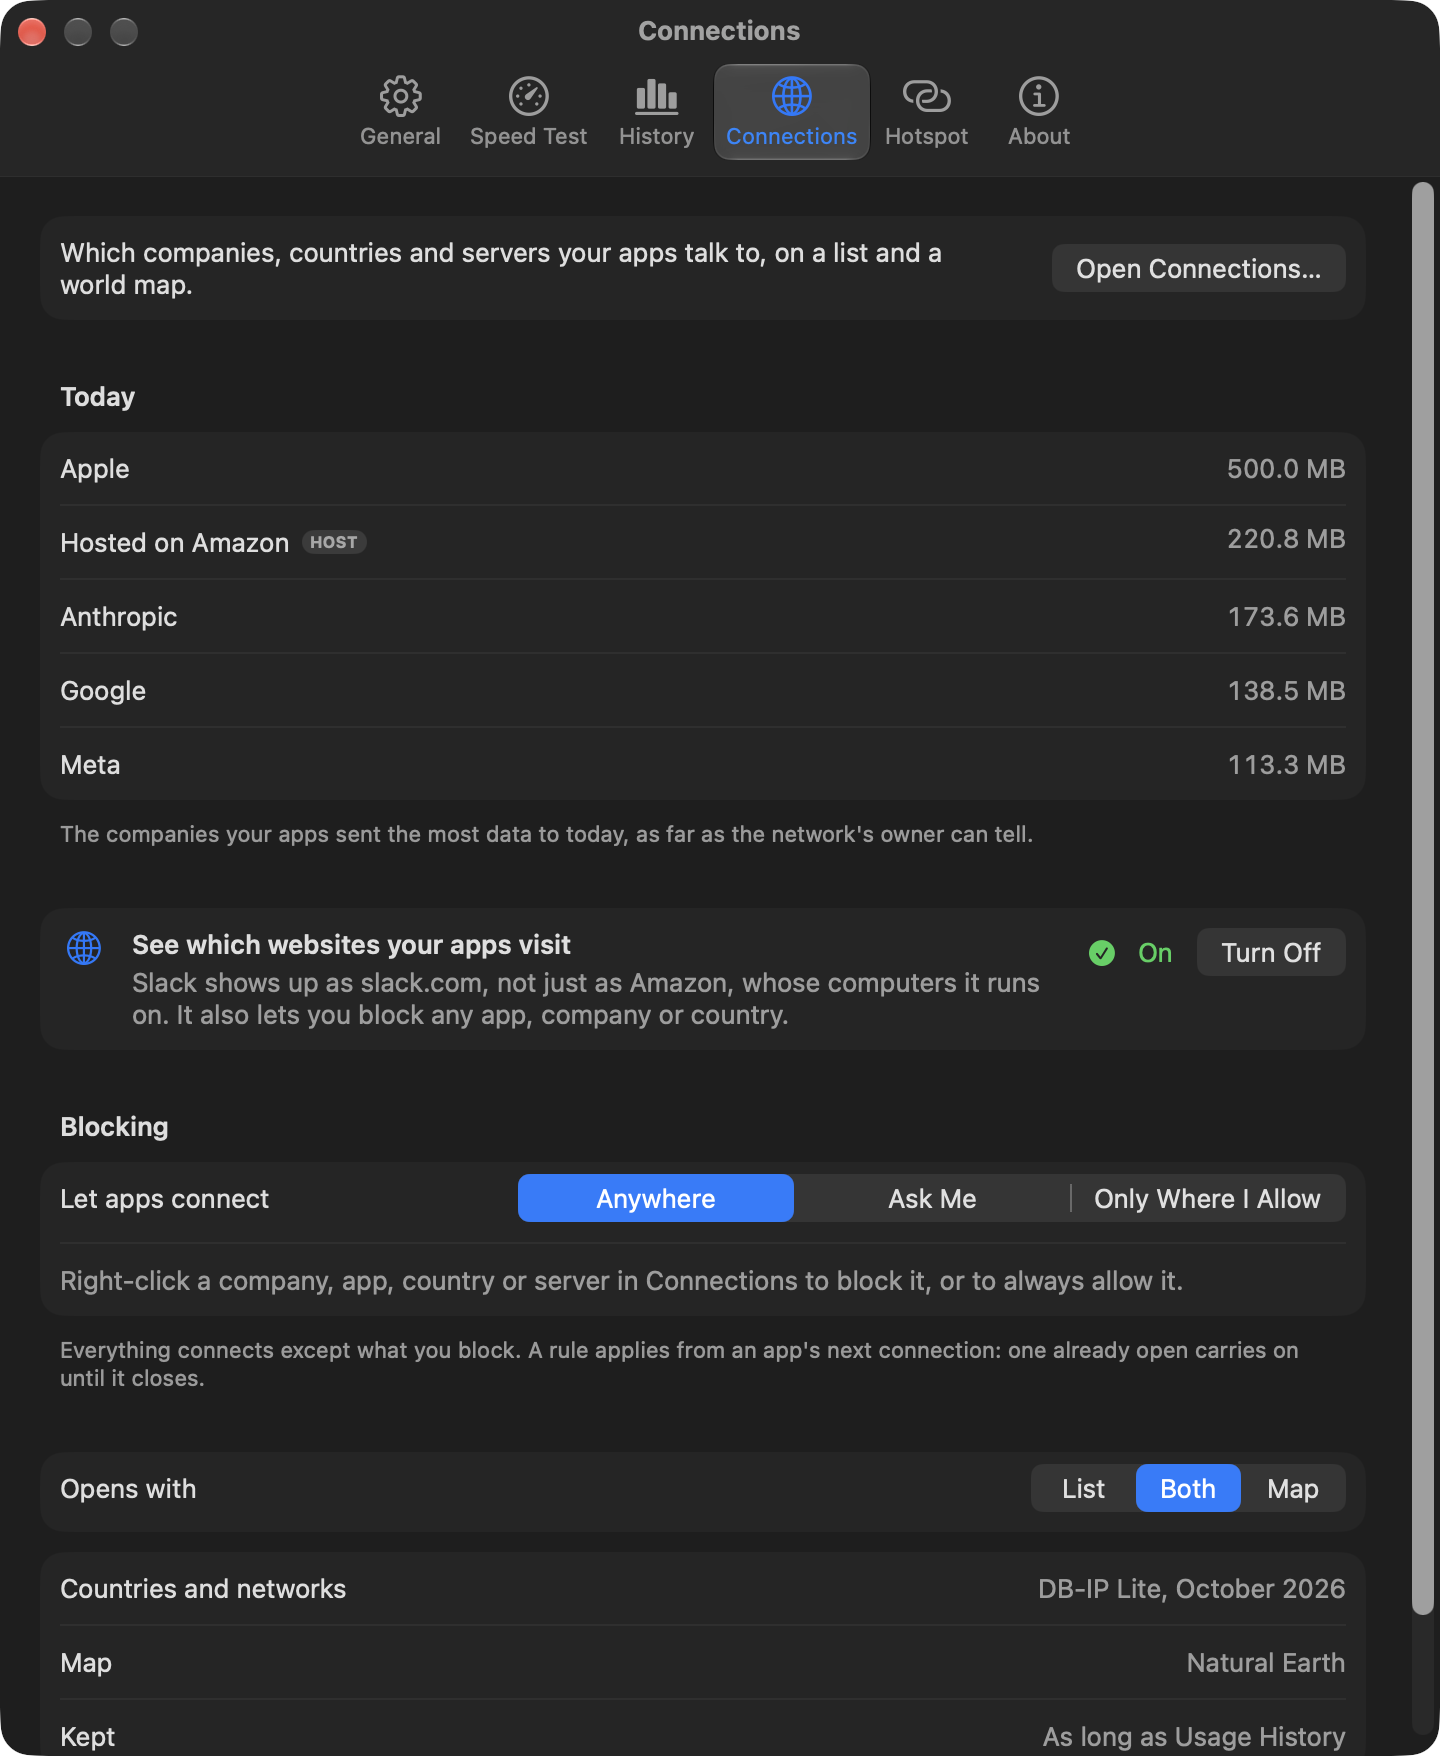
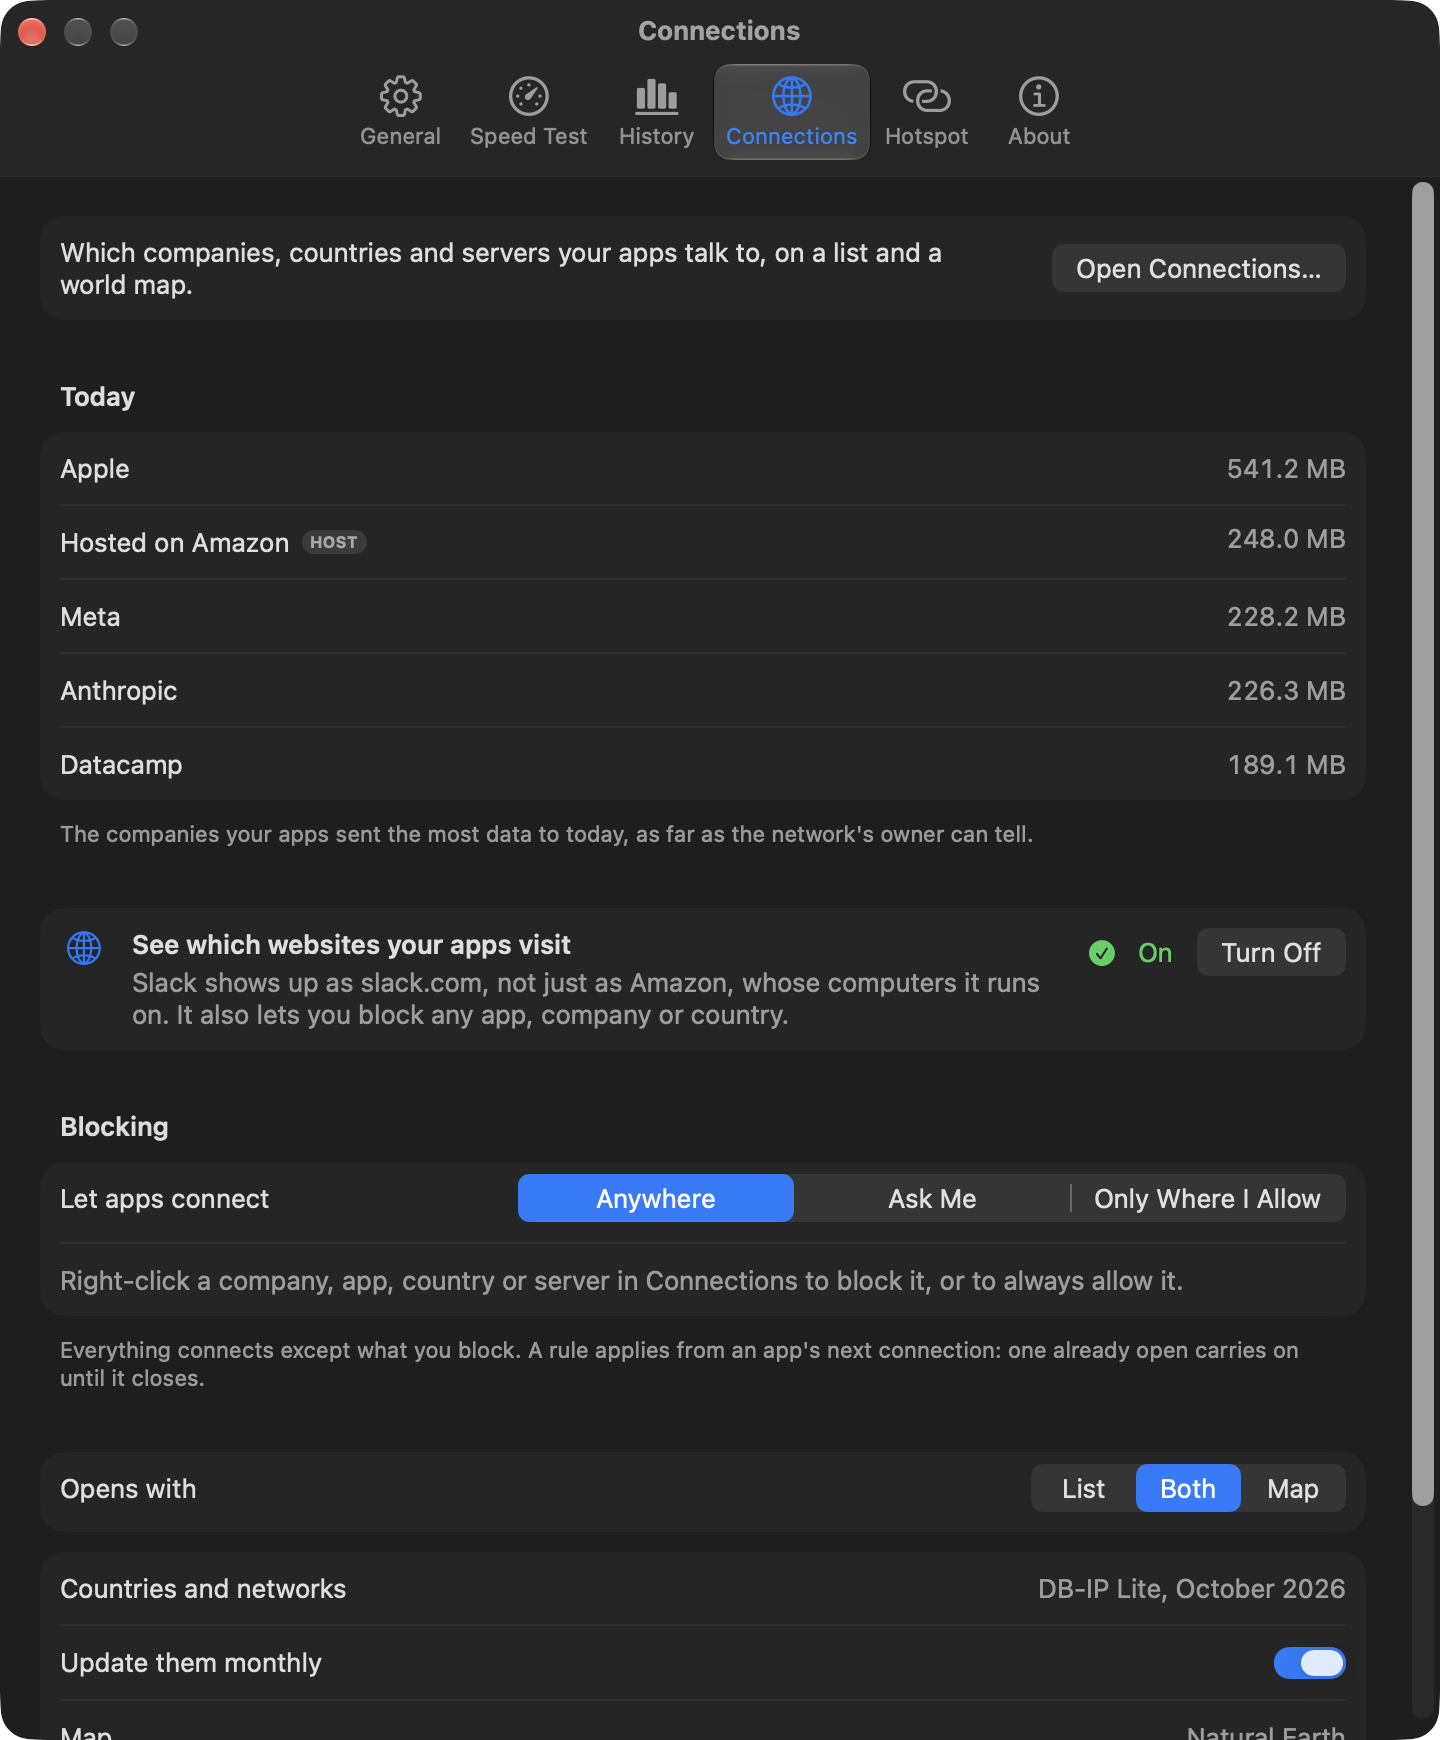
Bring the site up to 1.15.0
The version and download size, and what's in it. Privacy now says what
the app fetches itself: the monthly data and a daily update check, both
from GitHub, never on a hotspot, both switchable. Hotspot mode's helper is
a switch in System Settings rather than a password, and updating happens
by itself from 1.15. The About pane, with its new Updates section, and the
Connections pane, with Update them monthly, are recaptured from 1.15.0.

Part of #151.

diff --git a/index.html b/index.html
@@ -383,7 +383,7 @@ footer a { color: var(--text-2); }
         <a class="btn" href="https://github.com/kevinabouhanna/NetworkMonitor/releases/latest/download/NetworkMonitor.dmg" data-download>Download for Mac</a>
         <a class="more" href="https://github.com/kevinabouhanna/NetworkMonitor">View on GitHub</a>
       </div>
-      <p class="hero-meta reveal d3"><span>Version 1.14.0</span><span>macOS 13 or later</span><span>Apple silicon and Intel</span><span>Free and open source</span></p>
+      <p class="hero-meta reveal d3"><span>Version 1.15.0</span><span>macOS 13 or later</span><span>Apple silicon and Intel</span><span>Free and open source</span></p>
       <div class="featured reveal d3">
         <a href="https://www.trymacapps.com" target="_blank" rel="noopener">
           <img
@@ -571,11 +571,11 @@ footer a { color: var(--text-2); }
           </div>
         </div>
         <div class="reveal">
-          <h3>And with your password, once.</h3>
+          <h3>And with one switch, once.</h3>
           <div class="chips">
             <span class="chip">macOS system updates</span><span class="chip">App Store</span><span class="chip">Google Chrome</span><span class="chip">Claude</span><span class="chip">Claude Code</span><span class="chip">Slack</span><span class="chip">Canva</span><span class="chip">Low Data Mode</span>
           </div>
-          <p style="margin-top:14px">Switch it on and macOS asks for your password once, so NetworkMonitor can install a small helper. The helper can do exactly five things: pause, restore, turn Low Data Mode on and off, and report. The settings it touches are built into it, so it can’t be asked to change anything else.</p>
+          <p style="margin-top:14px">These need a small helper that’s part of the app: you switch it on once in System Settings, and updates bring it along. It does exactly five things: pause, restore, turn Low Data Mode on and off, and report. The settings it touches are built into it, it answers only NetworkMonitor, and it can’t be asked to change anything else.</p>
         </div>
         <div class="reveal">
           <h3>Reaches apps it’s never heard of.</h3>
@@ -693,7 +693,7 @@ footer a { color: var(--text-2); }
             <button class="prefs-tab" role="tab" type="button" aria-selected="false" aria-controls="prefs-panel" tabindex="-1" data-pane="hotspot" style="--x:76;--y:32;--w:55;--h:48"
                     data-caption="What it pauses on a hotspot and how, and what it can’t, with why. Click a list to open it.">Hotspot</button>
             <button class="prefs-tab" role="tab" type="button" aria-selected="false" aria-controls="prefs-panel" tabindex="-1" data-pane="about" style="--x:132;--y:32;--w:55;--h:48"
-                    data-caption="The version, where to read more, and Uninstall…, which puts back everything it changed.">About</button>
+                    data-caption="The version, updates, where to read more, and Uninstall…, which puts back everything it changed.">About</button>
           </div>
           <div id="prefs-panel" role="tabpanel" aria-label="General">
             <img class="prefs-shot on" data-shot="general" data-w="720" data-h="843" src="assets/settings/general.png" width="1440" height="1686"
@@ -702,16 +702,16 @@ footer a { color: var(--text-2); }
                  alt="The Speed Test pane: Test your internet speed, with a Test Now button. A note says it runs macOS's built-in networkQuality only when you start it, download first, then upload, typically using 50 to 500 MB. Show the test in the popover as Card or Compact, with Card chosen.">
             <img class="prefs-shot" data-shot="history" data-w="720" data-h="785" src="assets/settings/history.png" width="1440" height="1570" loading="lazy" aria-hidden="true"
                  alt="The History pane on Today, with Day, Week, Month and Year, a ‹ Today › stepper, and All, Wi‑Fi and Hotspot. 1.5 GB used, all over Wi‑Fi, in a bar chart by the hour that peaks at about 740 MB at noon. Below it, Apps, biggest first: Software Update 522.3 MB, Google Chrome 320.5 MB, iTerm2 166.6 MB, Slack 133.8 MB, Xcode 86.4 MB, WhatsApp 76.5 MB and GoogleUpdater 38.9 MB. Networks and Sessions are the other two lists. Keep history for Forever, with Clear History… and Export CSV… buttons.">
-            <img class="prefs-shot" data-shot="connections" data-w="720" data-h="878" src="assets/settings/connections.png" width="1440" height="1756" loading="lazy" aria-hidden="true"
-                 alt="The Connections pane. Which companies, countries and servers your apps talk to, on a list and a world map, with an Open Connections… button. Today: Apple 500.0 MB, Hosted on Amazon 220.8 MB, Anthropic 173.6 MB, Google 138.5 MB and Meta 113.3 MB. See which websites your apps visit is On, with a Turn Off button. Under Blocking, Let apps connect offers Anywhere, Ask Me and Only Where I Allow, with Anywhere chosen, and a note to right-click a company, app, country or server in Connections to block it. Opens with List, Both or Map, with Both chosen. Countries and networks: DB-IP Lite, October 2026.">
+            <img class="prefs-shot" data-shot="connections" data-w="720" data-h="870" src="assets/settings/connections.png" width="1440" height="1740" loading="lazy" aria-hidden="true"
+                 alt="The Connections pane. Which companies, countries and servers your apps talk to, on a list and a world map, with an Open Connections… button. Today: Apple 541.2 MB, Hosted on Amazon 248.0 MB, Meta 228.2 MB, Anthropic 226.3 MB and Datacamp 189.1 MB. See which websites your apps visit is On, with a Turn Off button. Under Blocking, Let apps connect offers Anywhere, Ask Me and Only Where I Allow, with Anywhere chosen. Opens with List, Both or Map, with Both chosen. Countries and networks: DB-IP Lite, October 2026, and Update them monthly, switched on.">
             <img class="prefs-shot" data-shot="hotspot" data-w="720" data-h="666" src="assets/settings/hotspot.png" width="1440" height="1332" loading="lazy" aria-hidden="true"
                  alt="The Hotspot pane. Stop apps updating on hotspots is on, and right now this connection isn't metered. Paused on a hotspot (12) and Can't be paused (3) are both closed. Every app's updater: Stopped on hotspots. Got through on your last metered connection: Slack downloaded an update, 271.6 MB, and GoogleUpdater, 265.6 MB.">
             <img class="prefs-shot" data-shot="hotspot-apps" data-w="720" data-h="870" src="assets/settings/hotspot-apps.png" width="1440" height="1740" loading="lazy" aria-hidden="true"
                  alt="The Hotspot pane with Paused on a hotspot (12) open, each app switched on with a line saying how it's paused: AppCleaner, Claude Usage, iTerm, OpenDisk and Remote for Mac turn off their automatic update check, Figma turns off its updater, and Microsoft AutoUpdate sets Microsoft's apps to update only when you ask. Through NetworkMonitor's helper: macOS updates, App Store apps, Claude, Slack, Figma, Google Chrome and Claude Code. Through their update folders: Claude, Figma, Granola and Synergy. Then Visual Studio Code, VLC and VoiceInk, the list scrolling on.">
             <img class="prefs-shot" data-shot="hotspot-uncovered" data-w="720" data-h="787" src="assets/settings/hotspot-uncovered.png" width="1440" height="1574" loading="lazy" aria-hidden="true"
                  alt="The Hotspot pane with Can't be paused (3) open: OmniDiskSweeper, Opera and Raycast, each having its own updater with no setting NetworkMonitor can turn off. Every app's updater: Stopped on hotspots, including ones listed as can't be paused when they update with a program of their own.">
-            <img class="prefs-shot" data-shot="about" data-w="720" data-h="564" src="assets/settings/about.png" width="1440" height="1128" loading="lazy" aria-hidden="true"
-                 alt="The About pane: the NetworkMonitor icon, Version 1.14.0 (91), and Live network speed in your menu bar, and which app used your data. Links to the website, the release notes and the source code on GitHub. Free and open source, under the MIT licence. Remove NetworkMonitor, with an Uninstall… button.">
+            <img class="prefs-shot" data-shot="about" data-w="720" data-h="710" src="assets/settings/about.png" width="1440" height="1420" loading="lazy" aria-hidden="true"
+                 alt="The About pane: the NetworkMonitor icon, Version 1.15.0 (95), and Live network speed in your menu bar, and which app used your data. Links to the website, the release notes and the source code on GitHub. Free and open source, under the MIT licence. Check for updates automatically is on, with a Check Now button: once a day it asks GitHub whether there's a newer version, never on a hotspot, and an update installs only when you say so, and only if it's signed by NetworkMonitor. Remove NetworkMonitor, with an Uninstall… button.">
             <button class="prefs-row" type="button" aria-expanded="false" data-row="apps" style="--x:-340;--y:236;--w:680;--h:44" hidden>Paused on a hotspot</button>
             <button class="prefs-row" type="button" aria-expanded="false" data-row="uncovered" style="--x:-340;--y:334;--w:680;--h:44" hidden>Can’t be paused</button>
             <a class="prefs-link" href="#top" style="--x:150;--y:319;--w:182;--h:30" hidden>Website</a>
@@ -745,10 +745,10 @@ footer a { color: var(--text-2); }
       <svg class="privacy-mark reveal" viewBox="0 0 88 88" aria-hidden="true" fill="none"><rect x="18" y="38" width="52" height="40" rx="10" fill="url(#g)"/><path d="M29 38V28a15 15 0 0 1 30 0v10" stroke="#e5e5e5" stroke-width="6"/><path d="M44 51v12" stroke="#000" stroke-width="6" stroke-linecap="round"/><defs><linearGradient id="g" x1="0" y1="38" x2="0" y2="78" gradientUnits="userSpaceOnUse"><stop stop-color="#51ff70"/><stop offset="1" stop-color="#2fd152"/></linearGradient></defs></svg>
       <p class="eyebrow reveal">Privacy</p>
       <h2 class="h2 reveal d1">It measures volume.<br>Never contents.</h2>
-      <p class="lead reveal d2" style="max-width:640px;margin-inline:auto">NetworkMonitor counts how much, and where it went, never what. <strong>And it has no way to phone home.</strong></p>
+      <p class="lead reveal d2" style="max-width:640px;margin-inline:auto">NetworkMonitor counts how much, and where it went, never what. <strong>Nothing about your traffic ever leaves your Mac.</strong></p>
       <div class="privacy-grid">
-        <div class="reveal"><h3>Two permissions, both optional.</h3><p>Location, only because macOS shares a Wi‑Fi network’s name no other way; it never looks up where you are. And website names, to see and block where apps connect. Both are offered when it first opens, and each can be turned on later. The only thing that ever asks for your password is the hotspot helper, once.</p></div>
-        <div class="reveal d1"><h3>No network access of its own.</h3><p>The only traffic NetworkMonitor ever causes is a speed test you start yourself, run by macOS’s built-in networkQuality against Apple’s servers. No analytics, no telemetry, no update check, no account.</p></div>
+        <div class="reveal"><h3>Two permissions, both optional.</h3><p>Location, only because macOS shares a Wi‑Fi network’s name no other way; it never looks up where you are. And website names, to see and block where apps connect. Both are offered when it first opens, and each can be turned on later. Hotspot mode’s helper is one switch in System Settings, not a password.</p></div>
+        <div class="reveal d1"><h3>Two small downloads, both yours to switch off.</h3><p>Once a month, the new country and network data, the same file for everyone; once a day, whether there’s a newer version. Both come from GitHub, never on a hotspot, and say nothing about your traffic. Beyond those, only a speed test you start. No analytics, no telemetry, no account.</p></div>
         <div class="reveal d2"><h3>Stays on your Mac.</h3><p>Your usage, and the servers your apps reached, live in local files on your Mac that you can delete at any time. Countries and companies are named from data inside the app.</p></div>
         <div class="reveal d3"><h3>Open source.</h3><p>MIT licensed. <a href="https://github.com/kevinabouhanna/NetworkMonitor">Read every line</a> before you run it.</p></div>
       </div>
@@ -768,7 +768,7 @@ footer a { color: var(--text-2); }
           <p>The usual Mac way: open the disk image and drag NetworkMonitor into <strong>Applications</strong>.</p>
           <div class="get">
             <a class="btn" href="https://github.com/kevinabouhanna/NetworkMonitor/releases/latest/download/NetworkMonitor.dmg" data-download>Download NetworkMonitor.dmg</a>
-            <span class="meta">Version 1.14.0 · 10.1 MB · Universal</span>
+            <span class="meta">Version 1.15.0 · 11.1 MB · Universal</span>
           </div>
           <figure class="dmg-shot" style="margin-bottom:0">
             <img src="assets/dmg-window.png" width="1424" height="1104" loading="lazy"
@@ -780,12 +780,12 @@ footer a { color: var(--text-2); }
             <li>The welcome window says what it can do with your OK: website names, and Wi‑Fi networks by name. Both are optional.</li>
             <li>Look for <span class="green">↓</span><span style="color:var(--light)">↑</span> in your menu bar.</li>
           </ol>
-          <p class="aside"><b>Updating:</b> download the new version and drag it over the old one, choosing <b>Replace</b>. Your settings and history stay. Coming from 1.13 or earlier, macOS asks for Location once more, since the app is now signed with an Apple Developer ID. <b>Removing:</b> right-click the menu bar item and choose <b>Uninstall NetworkMonitor…</b>, which puts back every setting it changed first.</p>
+          <p class="aside"><b>Updating:</b> from 1.15 on, NetworkMonitor offers each new version itself, and <b>Check for Updates…</b> in its menu asks at once. Coming from 1.14 or earlier, download this version and drag it over the old one, choosing <b>Replace</b>, once. Your settings and history stay. <b>Removing:</b> right-click the menu bar item and choose <b>Uninstall NetworkMonitor…</b>, which puts back every setting it changed first.</p>
         </article>
       </div>
 
       <div class="ctas reveal">
-        <a class="more" href="https://github.com/kevinabouhanna/NetworkMonitor/releases/tag/v1.14.0">What’s in version 1.14.0</a>
+        <a class="more" href="https://github.com/kevinabouhanna/NetworkMonitor/releases/tag/v1.15.0">What’s in version 1.15.0</a>
         <a class="more" href="https://github.com/kevinabouhanna/NetworkMonitor">View on GitHub</a>
       </div>
     </div>
